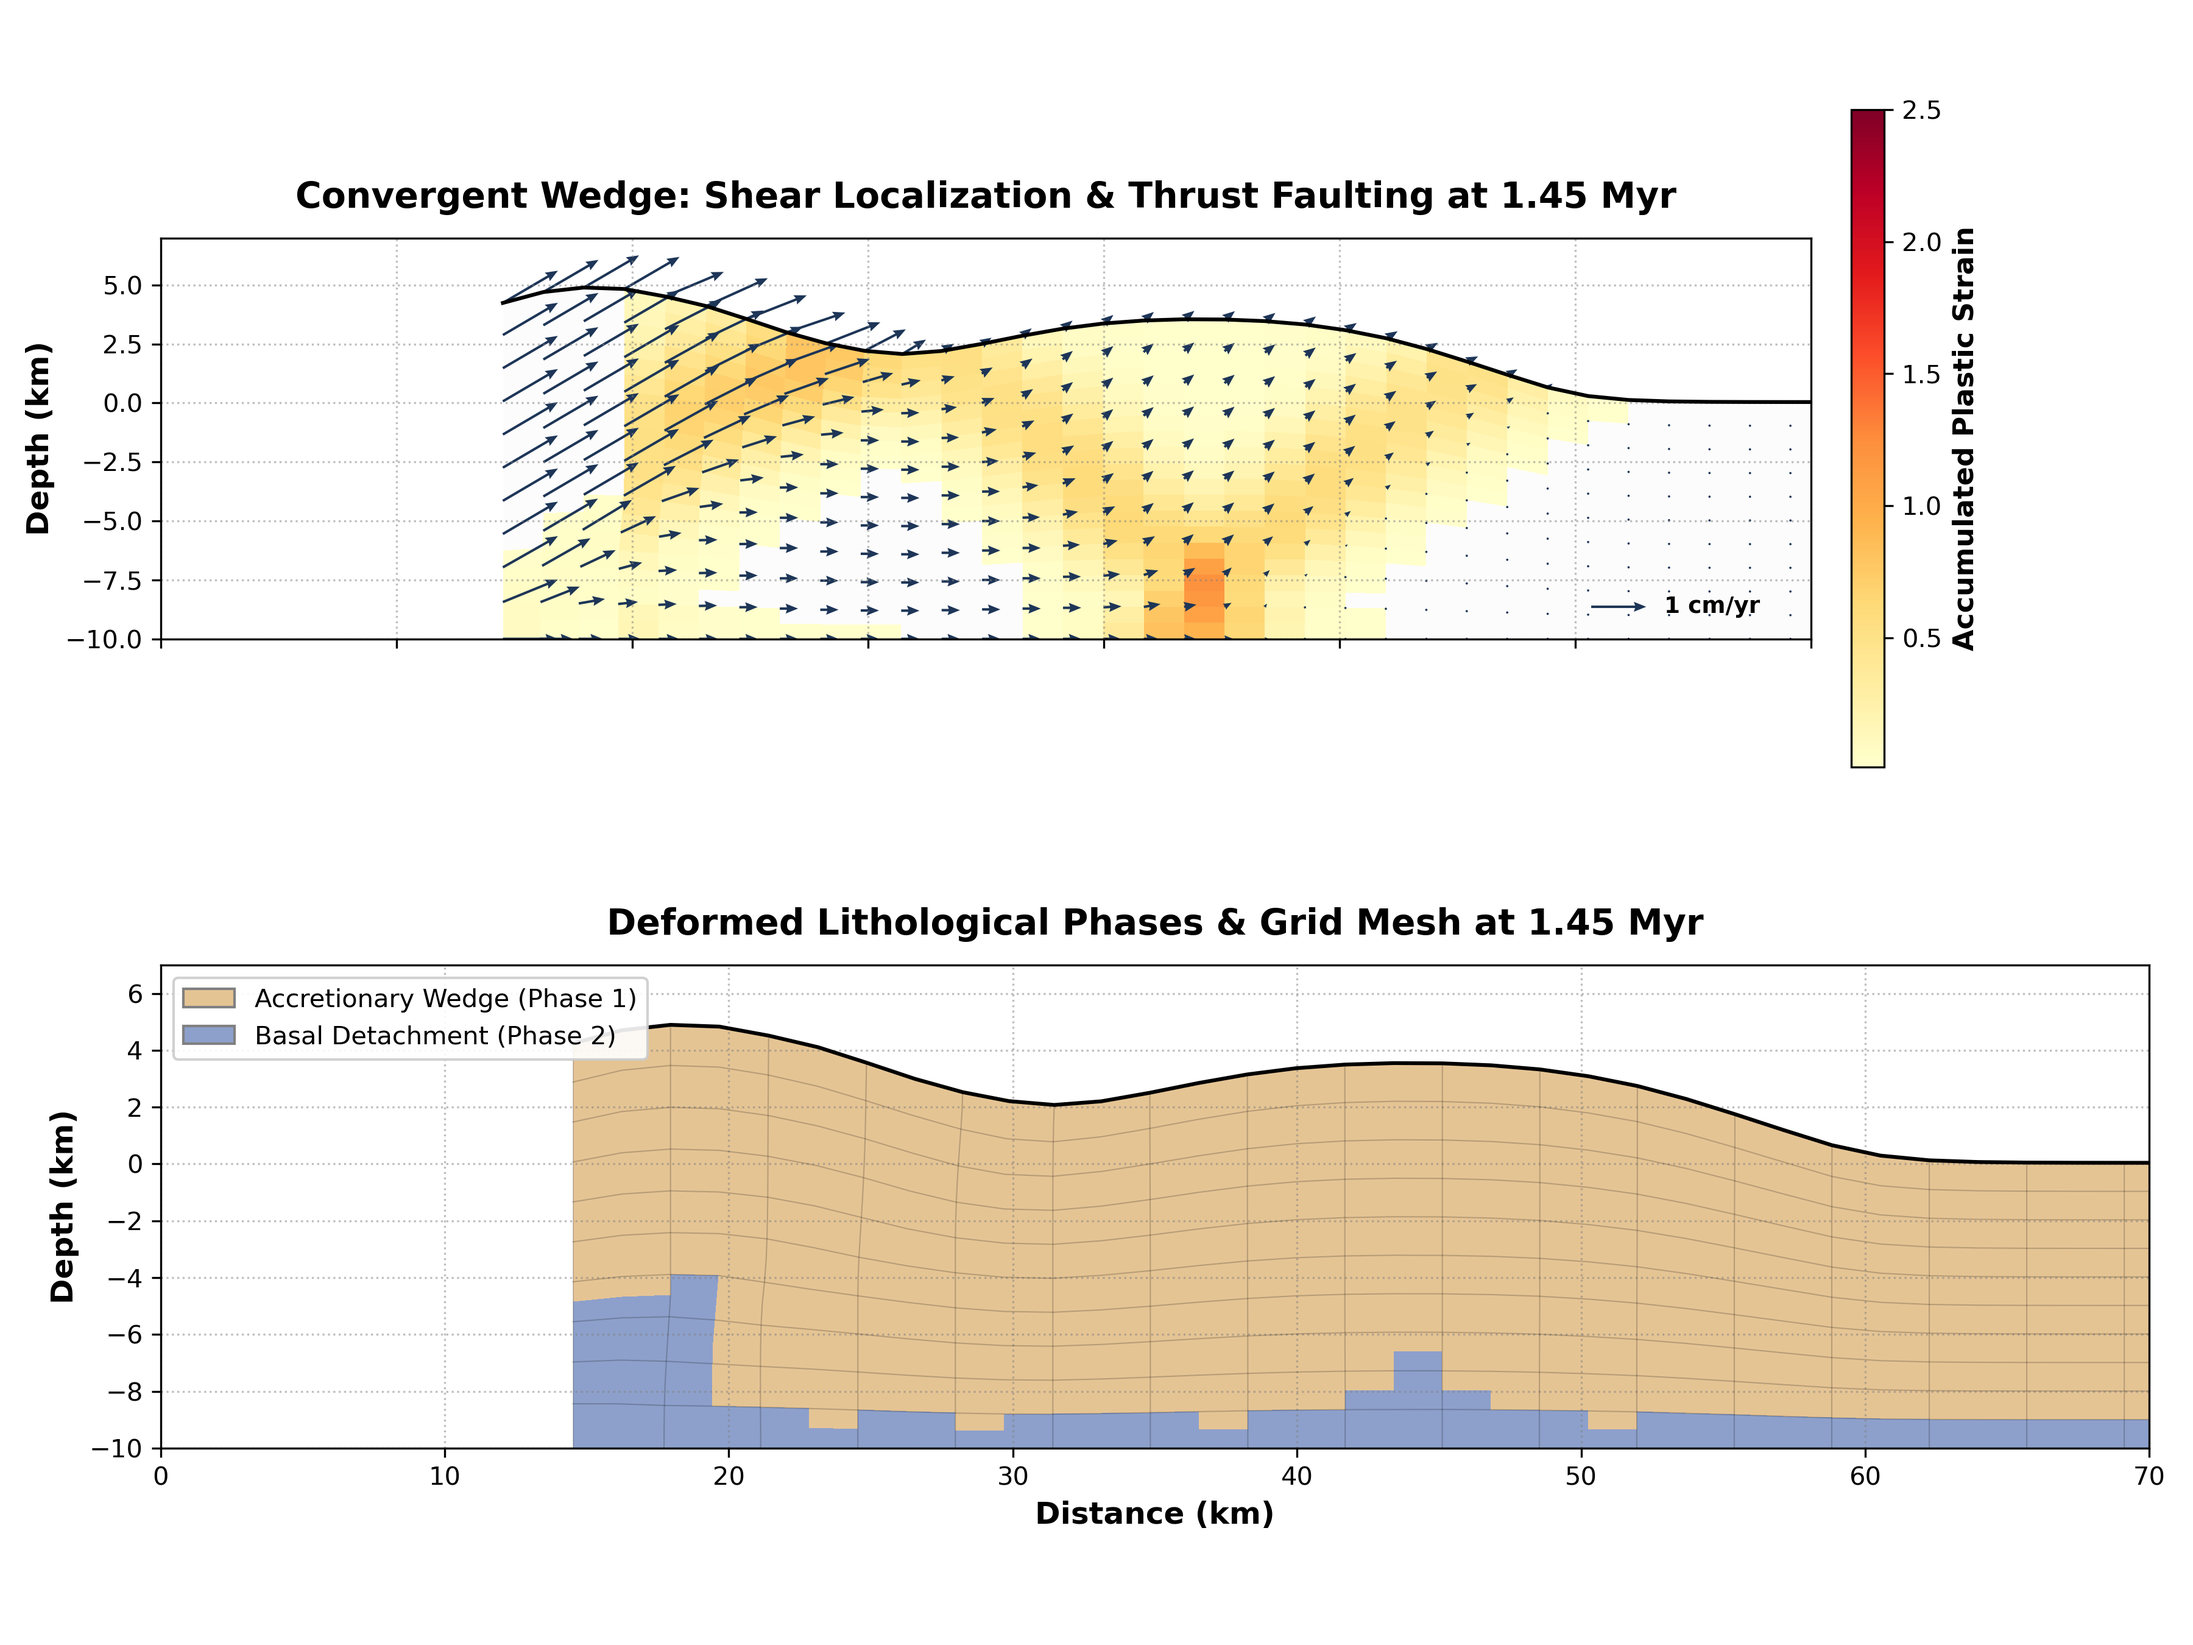
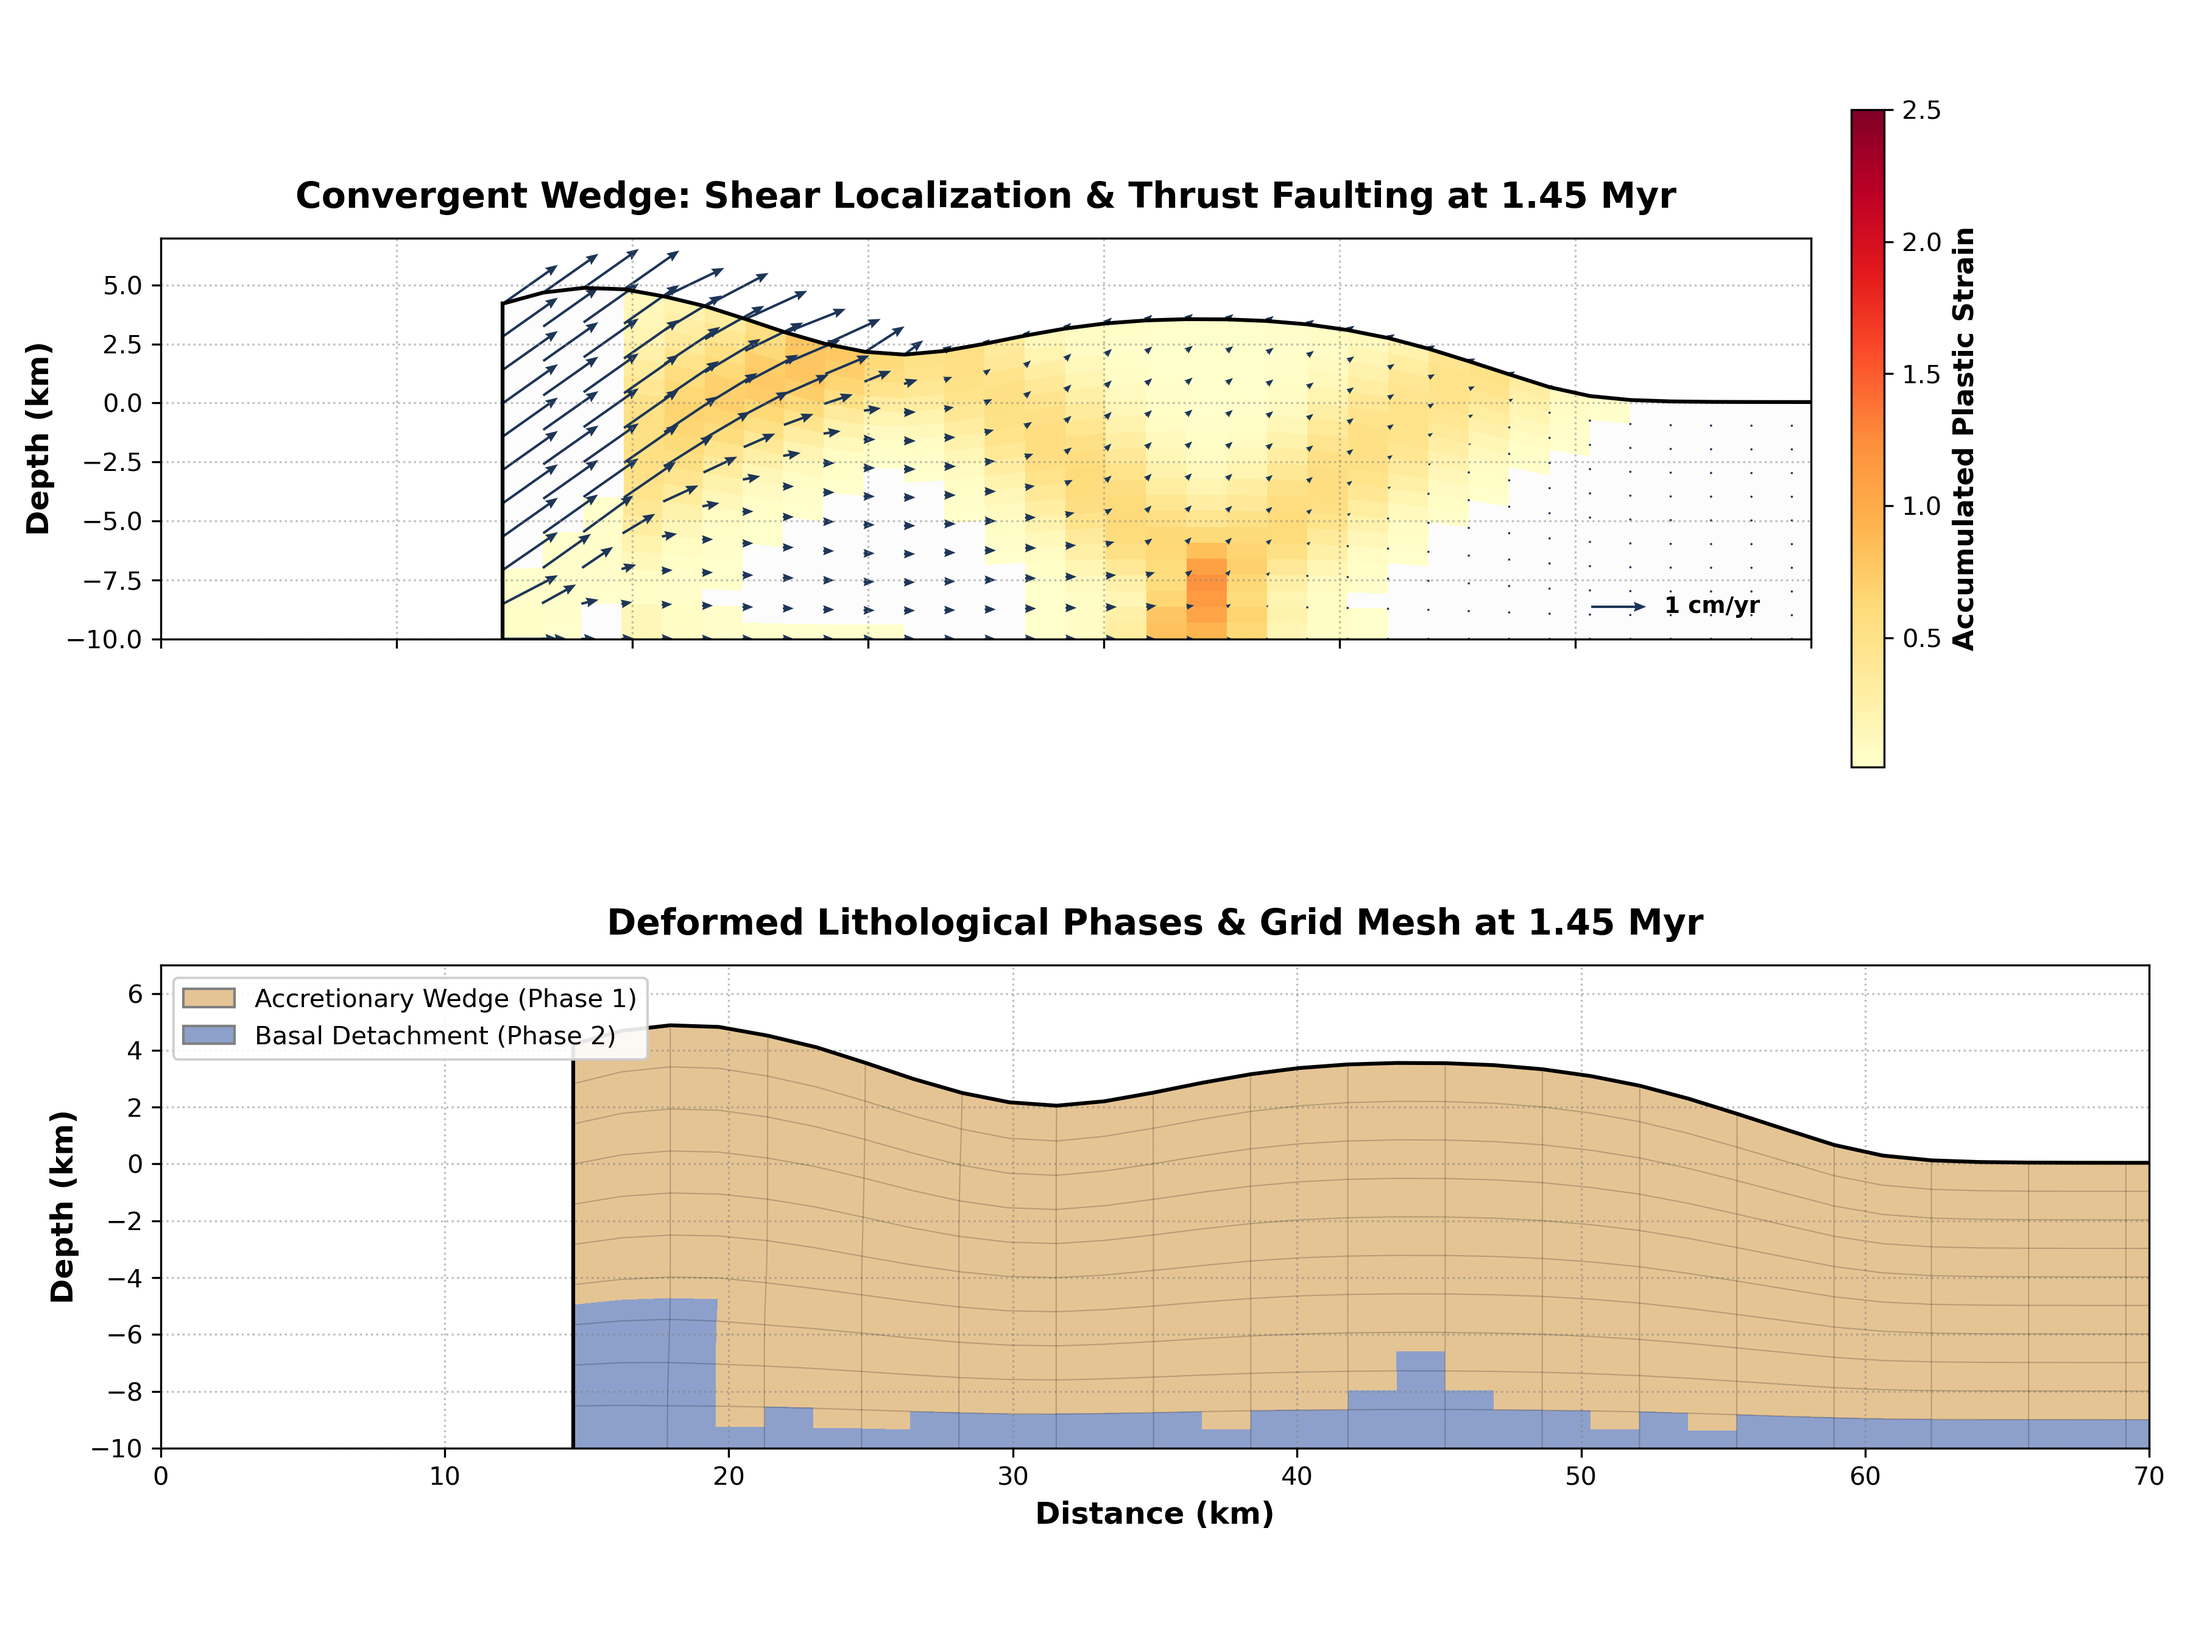
docs(tutorial12): add left boundary and log10 strain rate evolution plot in plot_convergent_wedge.py

diff --git a/examples/tutorial12-convergent-wedge/plot_convergent_wedge.py b/examples/tutorial12-convergent-wedge/plot_convergent_wedge.py
@@ -58,12 +58,13 @@ def main():
     
     # Plot aps
     im1 = ax1.pcolormesh(X_km, Z_km, aps, cmap=cmap_aps, vmin=0.01, vmax=2.5, shading='flat')
+    # Top surface boundary and Left boundary
     ax1.plot(X_km[:, 0], Z_km[:, 0], color='black', linewidth=1.5)
+    ax1.plot(X_km[0, :], Z_km[0, :], color='black', linewidth=1.5)
     cbar1 = fig.colorbar(im1, ax=ax1, orientation='vertical', pad=0.02, shrink=0.8)
     cbar1.set_label('Accumulated Plastic Strain', fontsize=11, fontweight='bold')
     
     # Overlay velocity arrows (downsample for clarity)
-    # nx is 51, nz is 21. Let's skip every 2 elements in x and 1 in z
     skip_x = 2
     skip_z = 1
     q1 = ax1.quiver(X_km[::skip_z, ::skip_x], Z_km[::skip_z, ::skip_x], 
@@ -89,7 +90,9 @@ def main():
     cmap_phase = mcolors.ListedColormap(colors_phase)
     
     im2 = ax2.pcolormesh(X_km, Z_km, phase, cmap=cmap_phase, shading='flat', vmin=0.5, vmax=2.5)
+    # Top surface boundary and Left boundary
     ax2.plot(X_km[:, 0], Z_km[:, 0], color='black', linewidth=1.5)
+    ax2.plot(X_km[0, :], Z_km[0, :], color='black', linewidth=1.5)
     
     # Legend for phases
     from matplotlib.patches import Patch
@@ -120,21 +123,27 @@ def main():
     plt.savefig('images/final_state_convergent_wedge.png', dpi=300)
     print("Saved 'images/final_state_convergent_wedge.png'")
     
-    # Create an evolution plot
+    # Create an evolution plot (showing second invariant of strain rate srII, which is stored as log10(srII))
     if nrec >= 3:
         fig_evo, axes_evo = plt.subplots(3, 1, figsize=(12, 12), sharex=True, sharey=True)
         # Select 3 frames: initial (1), middle (nrec // 2 + 1), final (nrec)
         frames_to_plot = [1, nrec // 2 + 1, nrec]
         
+        im = None
+        vmin_sr = -16.0
+        vmax_sr = -13.0
         for idx, f_idx in enumerate(frames_to_plot):
             ax = axes_evo[idx]
             x_f, z_f = fl.read_mesh(f_idx)
-            aps_f = fl.read_aps(f_idx)
+            srII_f = fl.read_srII(f_idx)
             t_f = fl.time[f_idx - 1]
             
-            im = ax.pcolormesh(x_f, z_f, aps_f, cmap=cmap_aps, vmin=0.01, vmax=2.5, shading='flat')
+            im = ax.pcolormesh(x_f, z_f, srII_f, cmap='magma', vmin=vmin_sr, vmax=vmax_sr, shading='flat')
+            # Top surface boundary and Left boundary
             ax.plot(x_f[:, 0], z_f[:, 0], color='black', linewidth=1.5)
-            ax.set_title(f'Accumulated Plastic Strain at t = {t_f:.2f} Myr', fontsize=12, fontweight='bold')
+            ax.plot(x_f[0, :], z_f[0, :], color='black', linewidth=1.5)
+            
+            ax.set_title(f'Strain Rate (log₁₀ s⁻¹) Evolution at t = {t_f:.2f} Myr', fontsize=12, fontweight='bold')
             ax.set_ylabel('Depth (km)', fontsize=10)
             ax.set_xlim(0, 70)
             ax.set_ylim(-10, 7)
@@ -142,7 +151,7 @@ def main():
             ax.set_aspect('equal')
             
         axes_evo[-1].set_xlabel('Distance (km)', fontsize=11, fontweight='bold')
-        fig_evo.colorbar(im, ax=axes_evo.tolist(), orientation='vertical', pad=0.02, shrink=0.6, label='Plastic Strain')
+        fig_evo.colorbar(im, ax=axes_evo.tolist(), orientation='vertical', pad=0.02, shrink=0.6, label='Second Invariant of Strain Rate (log₁₀ s⁻¹)')
         plt.savefig('images/evolution_convergent_wedge.png', dpi=300)
         print("Saved 'images/evolution_convergent_wedge.png'")
         
